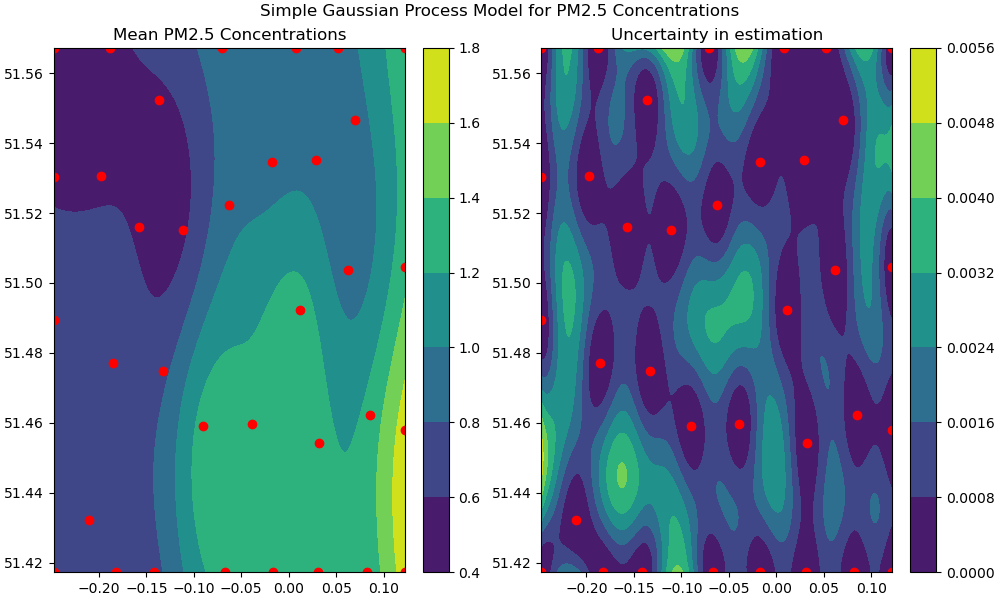
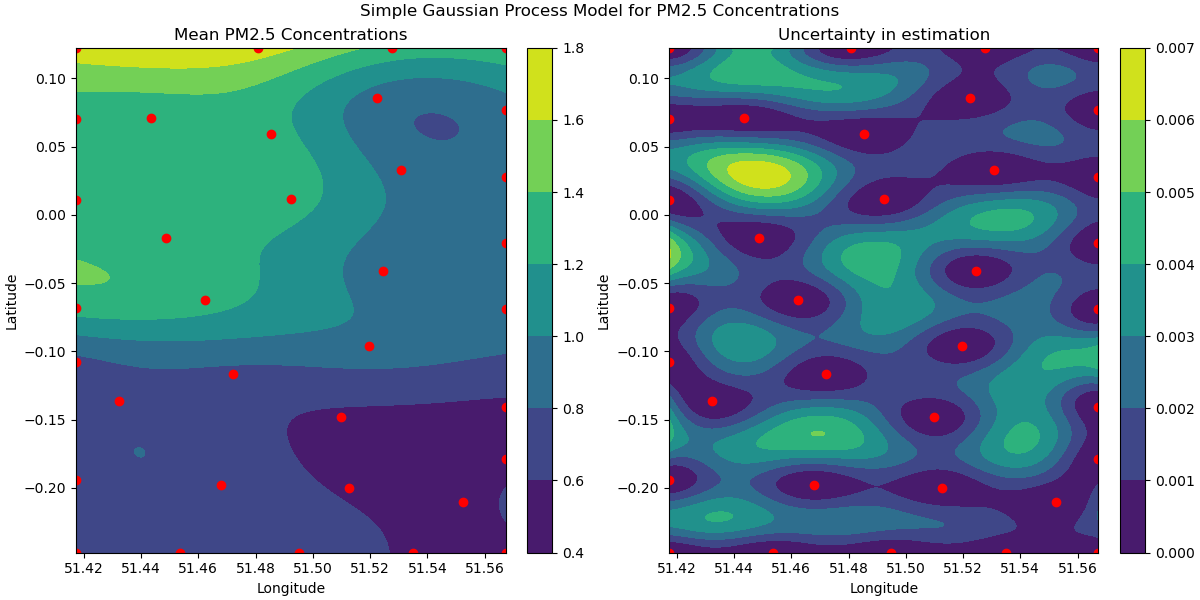
Updated figures to correct coordinates

diff --git a/gaussian_process.py b/gaussian_process.py
@@ -74,15 +74,19 @@ def plot_results(model: IModel, observations: np.ndarray,
     mean, uncertainty = model.predict(coords)
     mean = mean.reshape((1_000, 1_000))
     uncertainty = uncertainty.reshape((1_000, 1_000))
-    fig, (ax1, ax2) = plt.subplots(ncols=2, nrows=1, figsize=(10, 6), constrained_layout=True)
+    fig, (ax1, ax2) = plt.subplots(ncols=2, nrows=1, figsize=(12, 6), constrained_layout=True)
     ax1.set_title("Mean PM2.5 Concentrations")
-    cs1 = ax1.contourf(X, Y, mean)
-    ax1.scatter(observations[:, 0], observations[:, 1], c="red", marker="o")
-    ax2.set_title("Uncertainty in estimation")
+    ax1.set_xlabel("Longitude")
+    ax1.set_ylabel("Latitude")
+    cs1 = ax1.contourf(Y, X, mean)
+    ax1.scatter(observations[:, 1], observations[:, 0], c="red", marker="o")
     plt.colorbar(cs1, ax=ax1)
 
-    cs2 = ax2.contourf(X, Y, uncertainty)
-    ax2.scatter(observations[:, 0], observations[:, 1], c="red", marker="o")
+    ax2.set_title("Uncertainty in estimation")
+    ax2.set_xlabel("Longitude")
+    ax2.set_ylabel("Latitude")
+    cs2 = ax2.contourf(Y, X, uncertainty)
+    ax2.scatter(observations[:, 1], observations[:, 0], c="red", marker="o")
     plt.colorbar(cs2, ax=ax2)
     fig.suptitle("Simple Gaussian Process Model for PM2.5 Concentrations")
     fig.savefig("gaussian_process.png")
